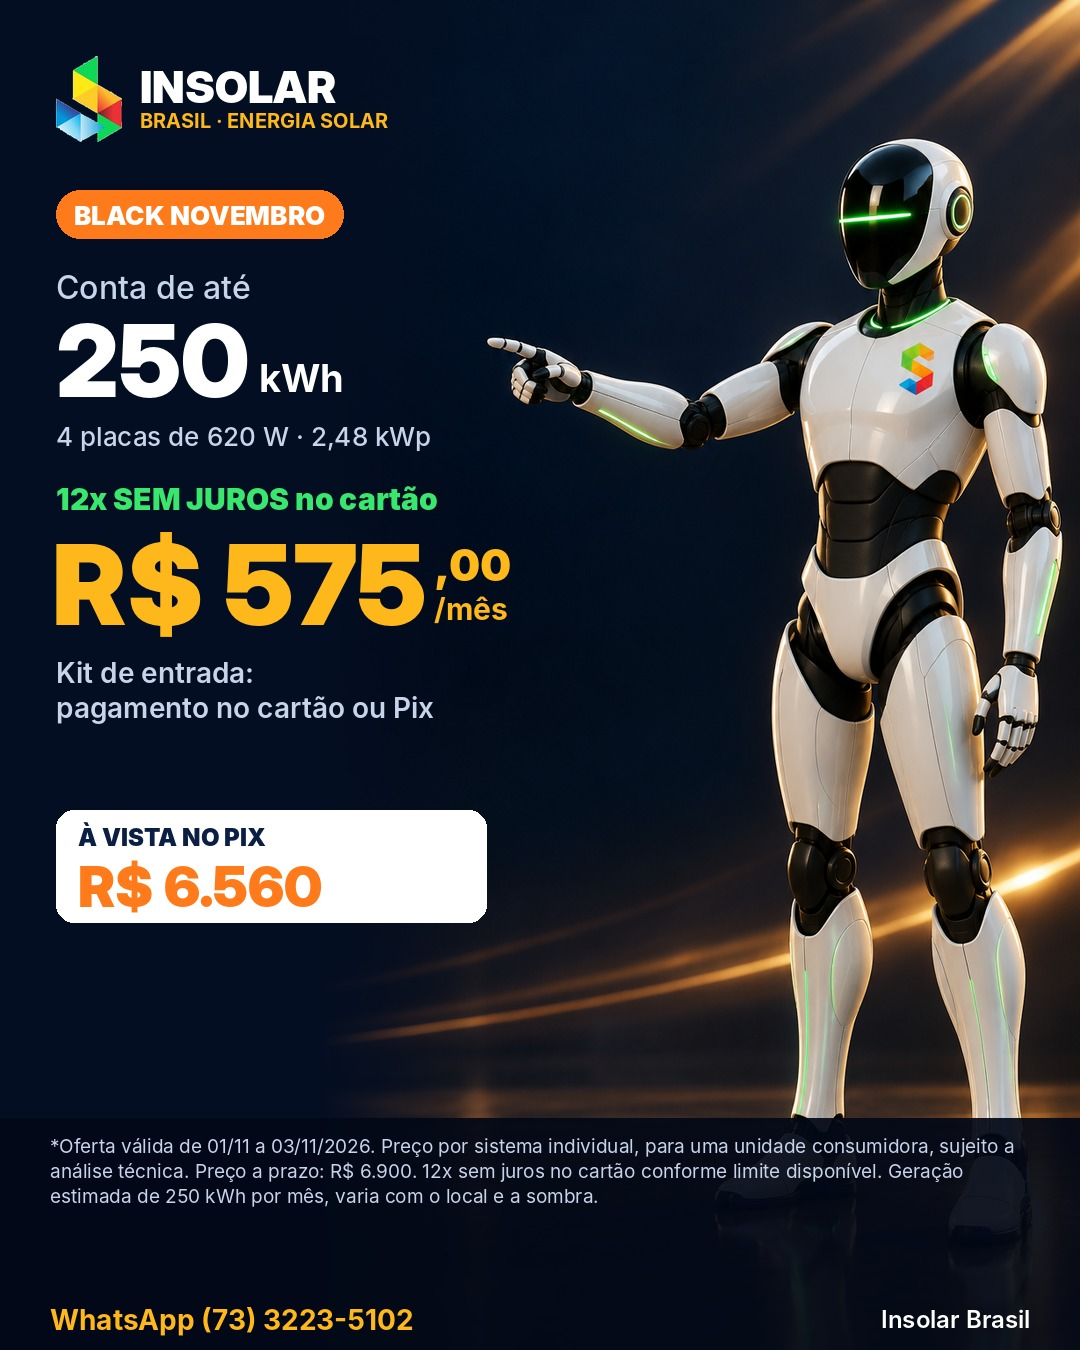
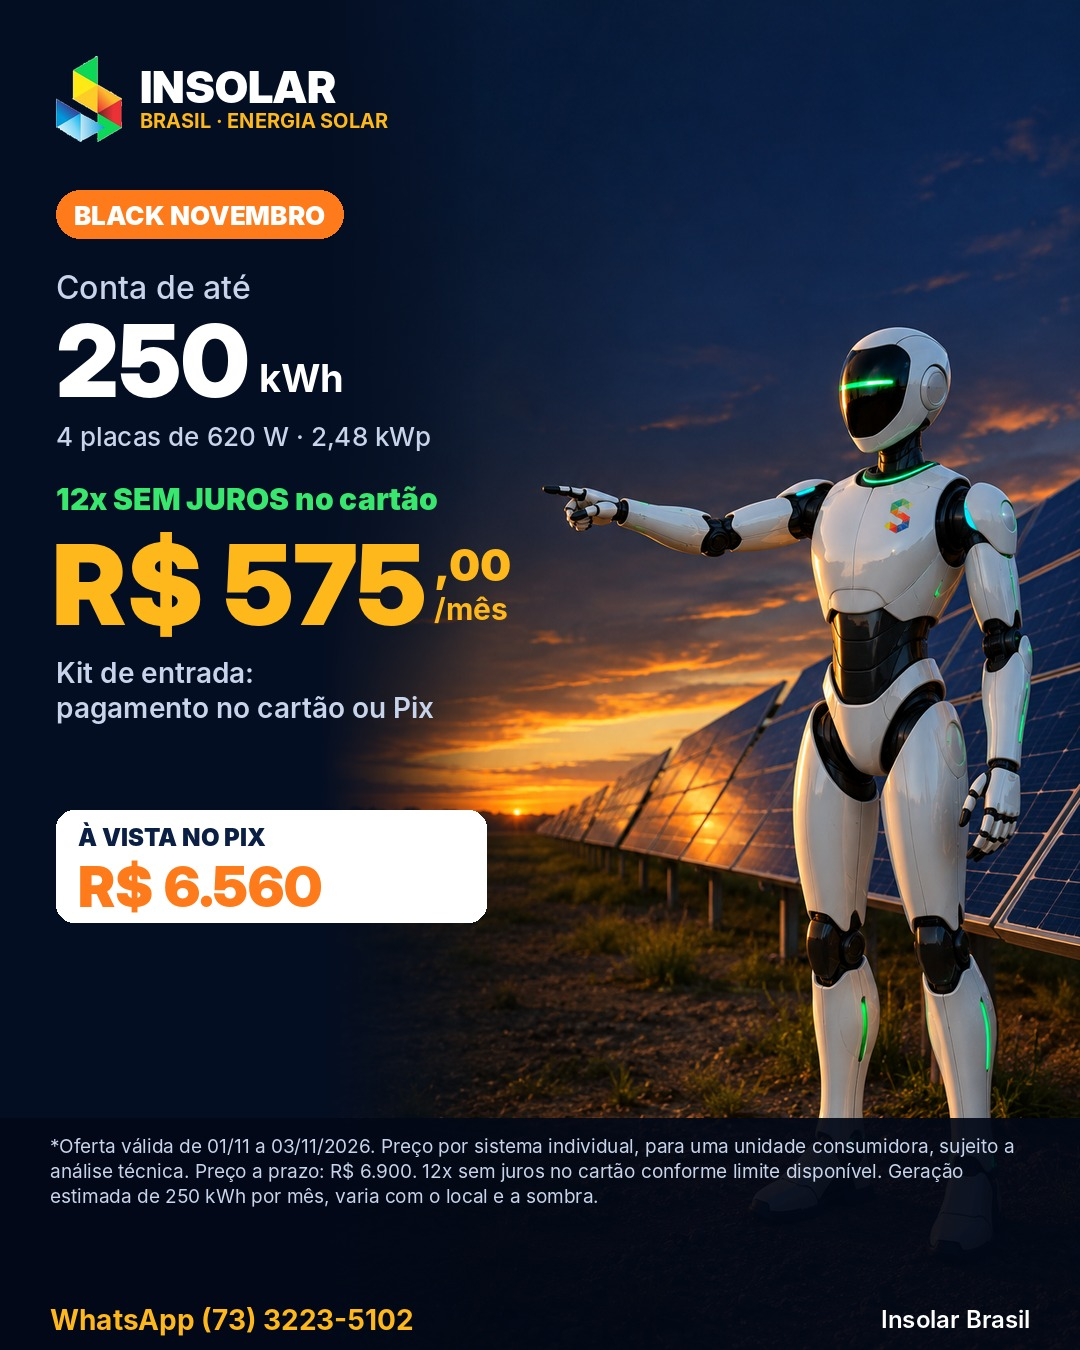
Cards de preço v3 - robô com placas solares

diff --git a/2026-11/precos/cards.py b/2026-11/precos/cards.py
@@ -57,7 +57,7 @@ def tag(d,x,y,txt):
     d.text((x+18,y+9),txt,font=f,fill=WHITE)
 
 def card(n,k):
-    c=base('robo_apontando_preco.png'); logo(c); d=ImageDraw.Draw(c); X=56
+    c=base('robo_apontando_placas.png'); logo(c); d=ImageDraw.Draw(c); X=56
     tag(d,X,190,'BLACK NOVEMBRO')
     d.text((X,268),'Conta de até',font=F('Inter-Medium.otf',32),fill=SOFT)
     fb=F('InterDisplay-Black.otf',100); d.text((X,300),f"{k['kwh']:,}".replace(',','.'),font=fb,fill=WHITE)
@@ -113,7 +113,7 @@ def capa():
     c.save('out/precos/00_capa.jpg',quality=92)
 
 def final():
-    c=base('robo_apontando_preco.png'); logo(c); d=ImageDraw.Draw(c); X=56
+    c=base('robo_apontando_placas.png'); logo(c); d=ImageDraw.Draw(c); X=56
     f=F('InterDisplay-Black.otf',70)
     for i,t in enumerate(['Sua conta','é maior?']): d.text((X,230+i*80),t,font=f,fill=WHITE)
     f2=F('Inter-SemiBold.otf',32)
